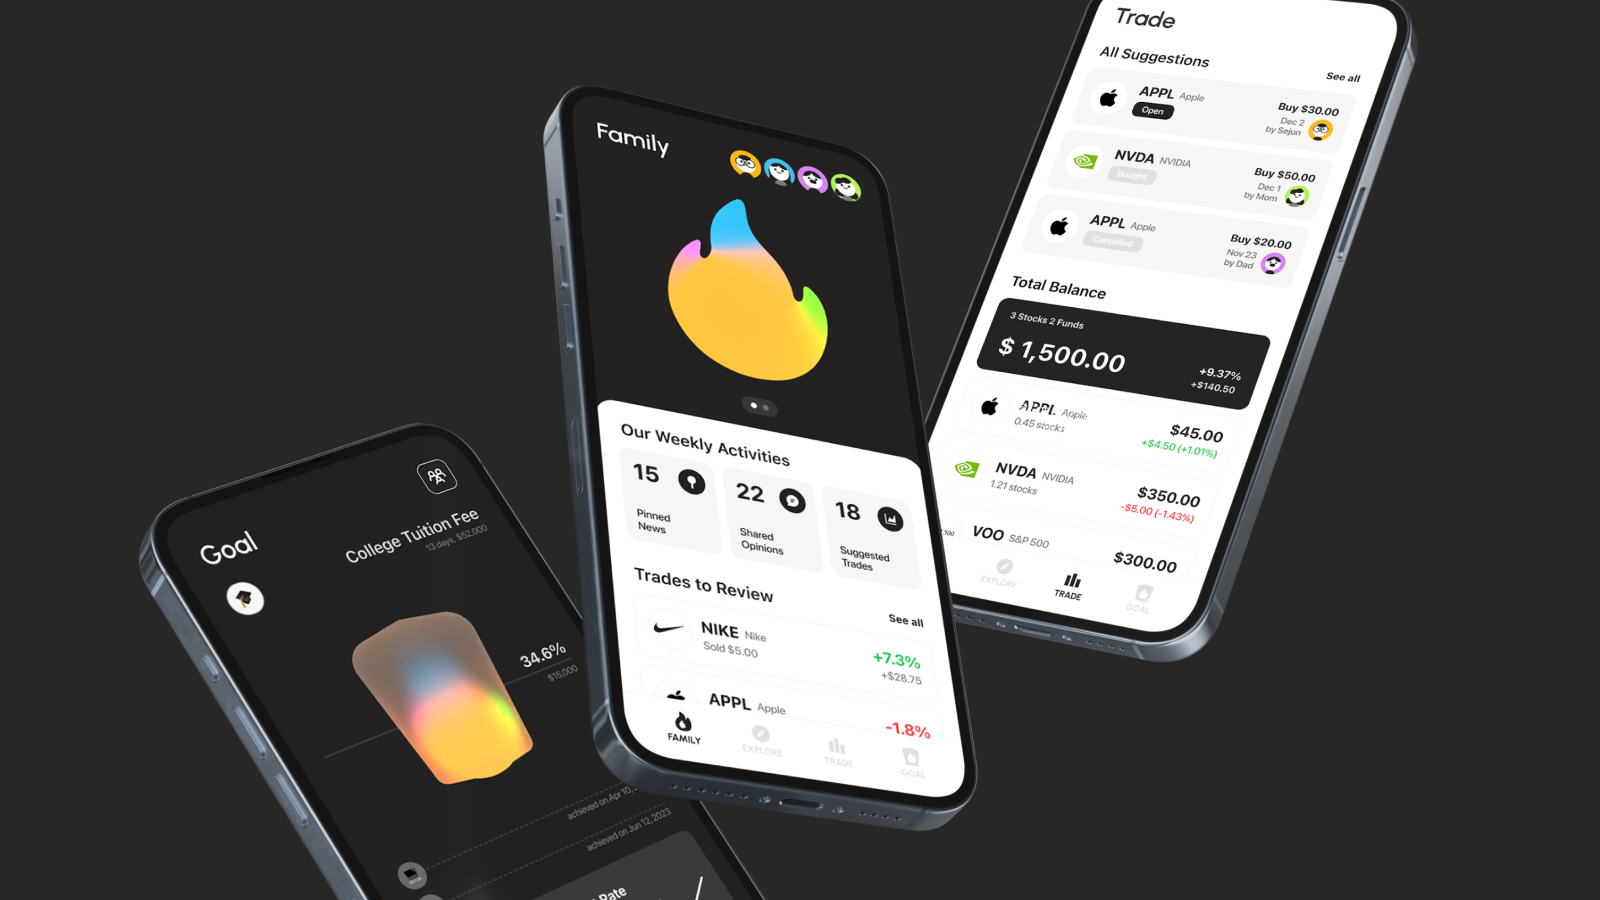
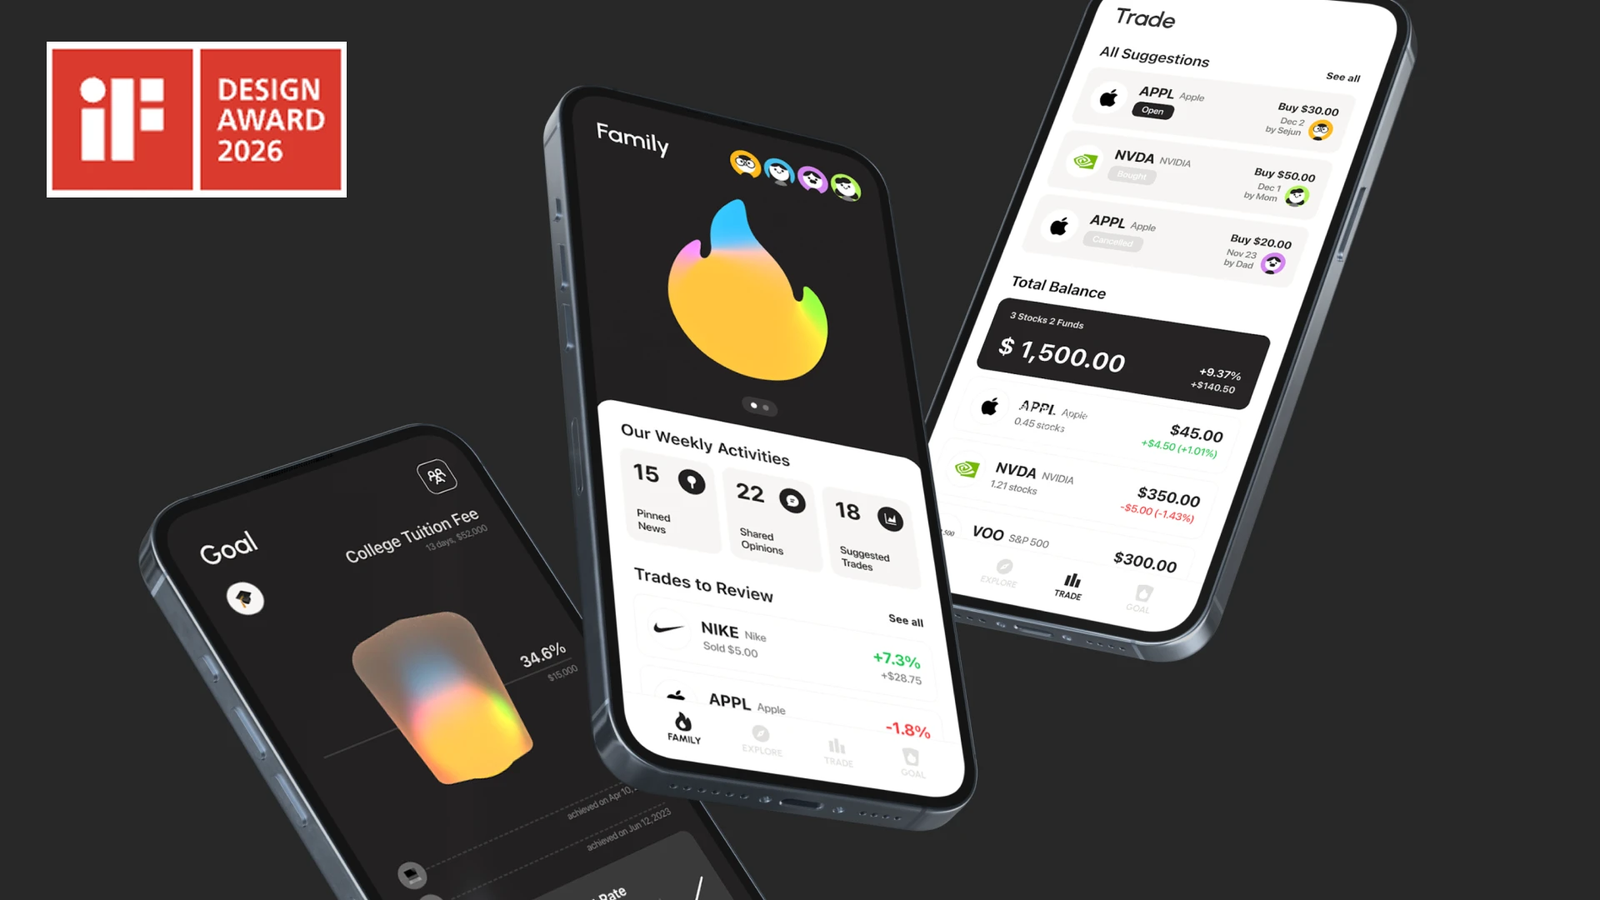
chore: Aspire won iF Design Award 2026, new cover

Changed region(s): [[0.0312, 0.0311, 0.2188, 0.2178], [0.5938, 0.4978, 0.625, 0.5289]]

diff --git a/src/pages/projects/Aspire.tsx b/src/pages/projects/Aspire.tsx
@@ -51,7 +51,7 @@ const blocks: ProjectContentBlock[] = [
   {
     type: "text",
     content:
-      "This project was submitted to the iF Design Award 2026 and selected as a finalist. The UX design was a collaborative team effort, and I led the UI design, including 2D/3D asset design and motion graphics.",
+      "Aspire won the iF Design Award 2026 in Service Design (Service, System & Process Design), developed with NH Investment & Securities. The UX design was a collaborative team effort, and I led the UI design, including 2D/3D asset design and motion graphics.",
   },
 ];
 
@@ -62,6 +62,13 @@ const AspireProject = () => {
       id="aspire"
       title="Aspire — Family Investment Mobile Application"
       projectPeriod="Sep 2024 - Dec 2024"
+      links={[
+        {
+          icon: "/icon/home.svg",
+          href: "https://ifdesign.com/en/winner-ranking/project/aspire/741994",
+          text: "iF Design Award 2026",
+        },
+      ]}
       role="2D & 3D Asset Design, Motion Graphics, UI/UX Design"
       members={[
         "Hyewon Lee",

diff --git a/src/assets/strings/projects.ts b/src/assets/strings/projects.ts
@@ -52,7 +52,7 @@ const projects: ProjectData[] = [
   },
   {
     title: "Aspire",
-    description: "Aspire is a family investment mobile application that visualizes shared learning and growth through the family fire, a lantern-inspired metaphor for long-term investing.",
+    description: "Aspire is a family investment mobile application that visualizes shared learning and growth through the family fire, a lantern-inspired metaphor for long-term investing. Winner of the iF Design Award 2026.",
     img: "/projects/thumb-aspire.png",
     year: 2024,
     type: "Design",
